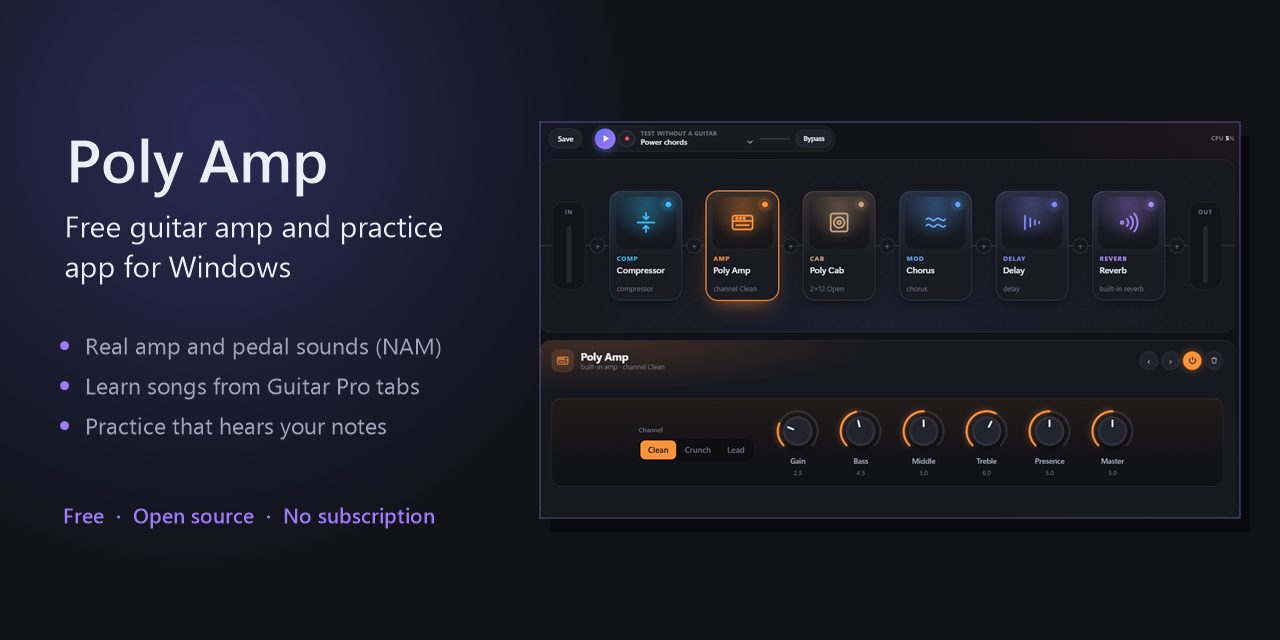
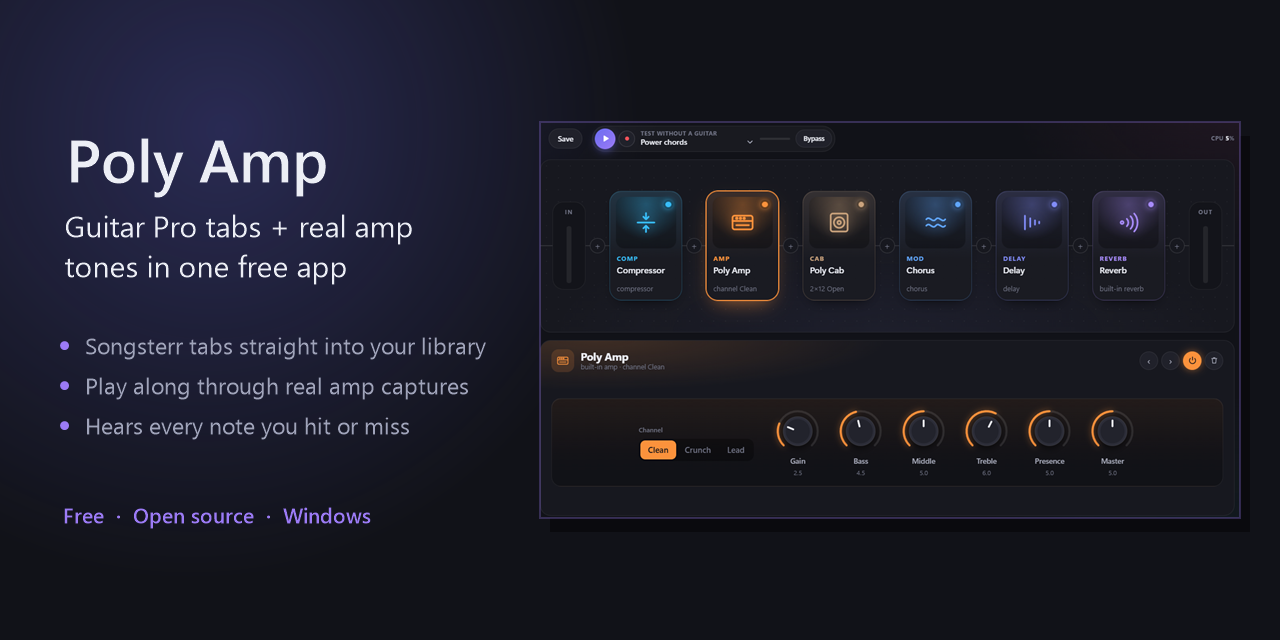
README: lead with tabs + real amp tones and Songsterr import
New headline and hero image (any song + real amp tone), Songsterr import
as the first selling point, refreshed social preview.

diff --git a/README.md b/README.md
@@ -1,31 +1,38 @@
 # Poly Amp
 
-**A free guitar amp and practice app for Windows.**
+### Guitar Pro tabs + real amp tones. One free app for practice.
 
-Plug your guitar into your computer, put on headphones and play through real amp and pedal sounds. Then learn songs
-from tabs: the app listens and shows which notes you hit.
+Grab songs from Songsterr or open your own Guitar Pro files, plug in your guitar and play along: your guitar sounds
+through captures of real amps and pedals while the rest of the band plays from the tab. Poly Amp hears every note and
+shows what you hit and what you missed.
 
 [![Download for Windows](https://img.shields.io/badge/Download-Windows%2010%20%2F%2011-6a6cf0?style=for-the-badge)](../../releases/latest)
 [![License: MIT](https://img.shields.io/badge/license-MIT-9c7bf6?style=for-the-badge)](LICENSE)
 
-![Poly Amp: amps, pedals and presets](docs/screenshots/play.png)
+![Your tabs + real amp tone in one window](docs/hero.png)
 
-## What it does
+**One window instead of four:** a tab player, an amp sim, a tuner and a metronome.
 
-- 🎸 **Great tone without the gear.** Amps and pedals captured from real hardware with neural networks
-  ([NAM](https://www.neuralampmodeler.com)), thousands of them free on [TONE3000](https://www.tone3000.com), plus
-  built-in amps, drives, cabs, chorus, delay and reverb. Presets play right away.
-- 🎼 **Learn songs from tabs.** Open Guitar Pro files or grab one from Songsterr in a click. Slow it down, loop the hard
-  part and play along: the app marks every note you hit or miss, or waits until you play the right one.
-- 🎯 **Practice that listens.** Find notes on the fretboard, play scales against a timer, drill chord changes. No
+## Why Poly Amp
+
+- 📥 **Songsterr tabs straight into your library.** Copy a song link on Songsterr and press **Ctrl+V** in Poly Amp.
+  Songsterr opens right in the app; hit their Guitar Pro download (a free account is enough) and the tab lands in your
+  library, ready to play. Got your own Guitar Pro files? Point the app at the folder.
+- 🔥 **Practice that sounds like playing.** Drilling a song through a thin clean tone gets old fast. Here your guitar
+  runs through neural captures of real amps and pedals ([NAM](https://www.neuralampmodeler.com)), with thousands of
+  free ones on [TONE3000](https://www.tone3000.com), plus built-in amps, drives, cabs, delay and reverb. Presets play
+  right away.
+- 🎼 **Learn it your way.** Slow a song down, loop the hard part, count in, solo or mute any track, follow it on the
+  fretboard.
+- 👂 **It actually listens.** *Play along* marks every hit and miss. *Wait for me* stops until you play the right note.
+  No more faking your way through the hard bars.
+- 🎯 **Skills, not just songs.** Find notes on the fretboard, run scales against the clock, drill chord changes. No
   buttons to press, just play.
-- 🆓 **Free and open source.** No subscription, no ads, no sign-up to play.
+- 🆓 **Free. For real.** No subscription, no ads, no account needed to play. Open source.
 
-Also inside: a tuner, a metronome, built-in riffs to hear presets without a guitar, and a recorder for your own riffs.
-
-| Learn songs from tabs | Practice scales and chords |
+| Your guitar through real amps and pedals | Scales and chords that listen |
 | --- | --- |
-| ![Tabs](docs/screenshots/tabs.png) | ![Practice](docs/screenshots/practice.png) |
+| ![Play](docs/screenshots/play.png) | ![Practice](docs/screenshots/practice.png) |
 
 ## What you need
 
@@ -228,5 +235,6 @@ Poly Amp is released under the [MIT License](LICENSE). It uses third-party compo
 core (MIT), Eigen (MPL 2.0), NAudio (MIT), WebView2 SDK, alphaTab (MPL 2.0), the Bravura font (OFL) and the Sonivox
 sound bank (Apache 2.0); see [THIRD_PARTY_NOTICES.md](THIRD_PARTY_NOTICES.md).
 
-Not affiliated with TONE3000 or Songsterr. Amp and pedal names in presets and tone titles are trademarks of their
+Not affiliated with Arobas Music (Guitar Pro), TONE3000 or Songsterr. Guitar Pro is a trademark of Arobas Music; Poly
+Amp only opens its file formats. Amp and pedal names in presets and tone titles are trademarks of their
 owners and are used only to describe the captured gear.
